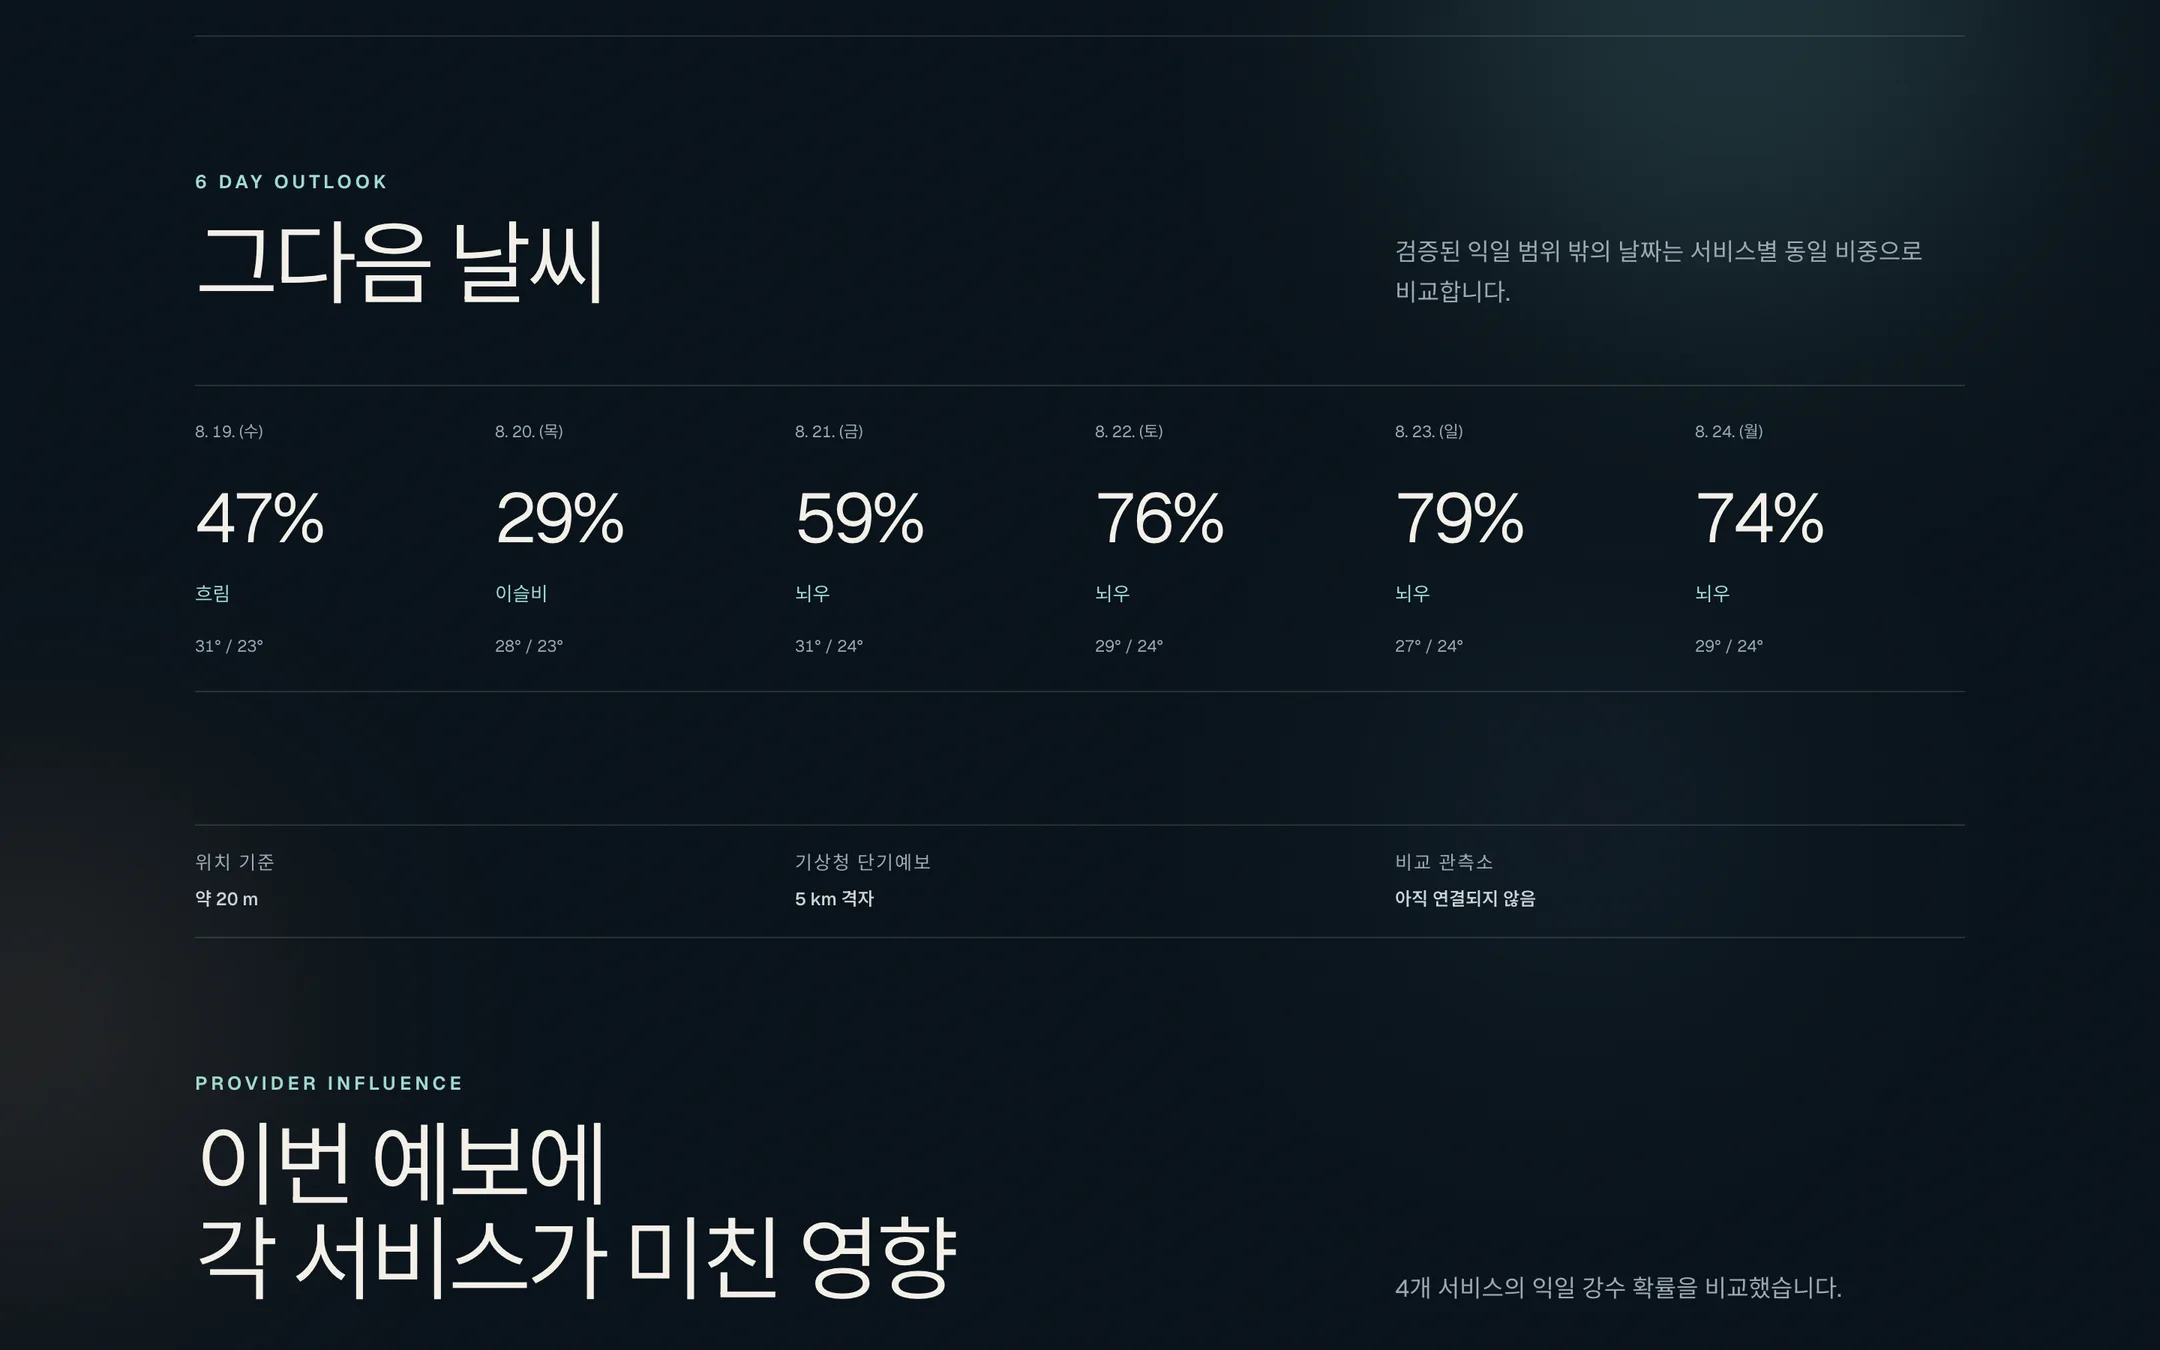
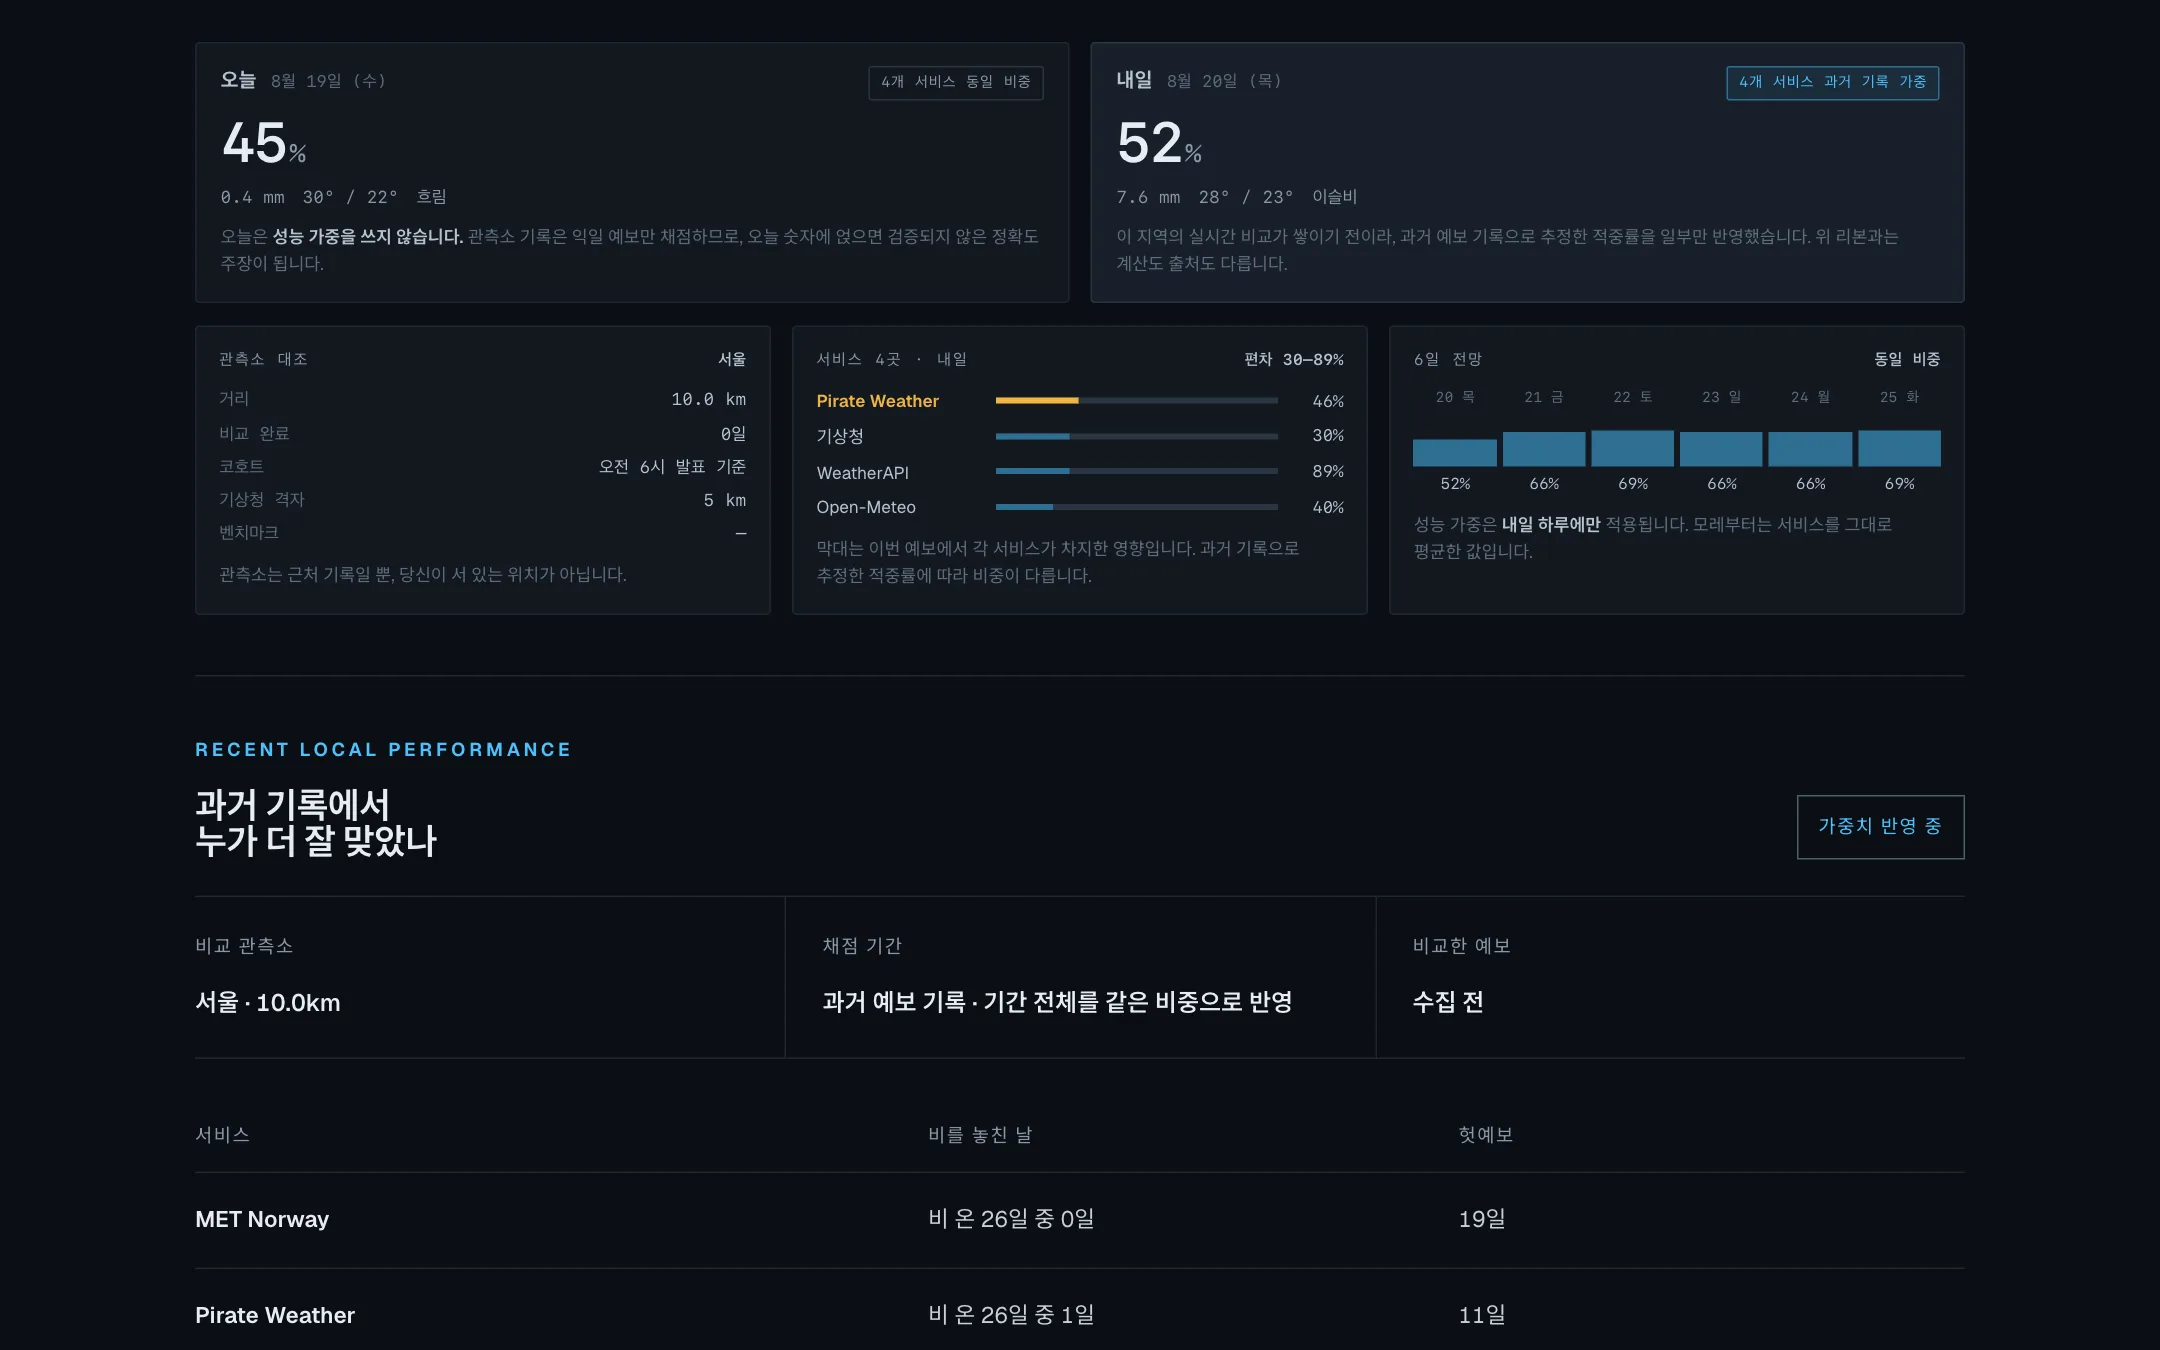
docs(local): describe and screenshot the horizontal time axis

diff --git a/components/local/LocalForecastExperience.tsx b/components/local/LocalForecastExperience.tsx
@@ -2,6 +2,7 @@
 
 import { useEffect, useId, useRef, useState, type CSSProperties } from "react";
 import { CONDITION_LABELS_KO } from "@/lib/conditions";
+import { periodNameForHour } from "@/lib/forecast/blocks";
 import type { TimelineReading } from "@/lib/forecast/rainWindow";
 import type { LocalForecastTimelineBlock, LocalForecastView } from "@/lib/localForecastView";
 import {
@@ -66,13 +67,19 @@ function formatDate(date: string | null): string {
   }).format(new Date(`${date}T12:00:00+09:00`));
 }
 
+/**
+ * "20 목" — six of these share one card, so the month is dropped. The card
+ * already says these are the days after tomorrow, and a full "8. 20. (목)"
+ * overflows its column at every width.
+ */
 function formatOutlookDate(date: string): string {
-  return new Intl.DateTimeFormat("ko-KR", {
+  const weekday = new Intl.DateTimeFormat("ko-KR", {
     timeZone: "Asia/Seoul",
-    weekday: "short",
-    month: "numeric",
-    day: "numeric",
+    weekday: "narrow",
   }).format(new Date(`${date}T12:00:00+09:00`));
+  // Off the ISO date rather than Intl: ko-KR renders `day: "numeric"` as "20일",
+  // and "20일 목" is a third wider than the column it has to sit in.
+  return `${Number(date.slice(8, 10))} ${weekday}`;
 }
 
 /**
@@ -788,6 +795,16 @@ function blockHint(
   return "기준 아래입니다.";
 }
 
+/**
+ * "오후 1시", "자정" — a Korean period name pairs with a 12-hour number, so the
+ * raw 24-hour clock the blocks carry ("오후 13시") reads as a mistake.
+ */
+function clockLabel(hour: number): string {
+  if (hour === 0) return "자정";
+  const period = periodNameForHour(hour);
+  return `${period} ${hour % 12 === 0 ? 12 : hour % 12}시`;
+}
+
 /** The rain window as the sentence the page leads with. */
 function RainSentence({ run, endsTomorrow }: {
   run: TimelineReading["firstRun"];
@@ -796,7 +813,7 @@ function RainSentence({ run, endsTomorrow }: {
   if (!run) return <>앞으로 24시간, <b>비 소식은 없습니다</b></>;
   const onset = run.startIndex === 0
     ? "지금부터"
-    : `${run.startsTomorrow ? "내일 " : ""}${run.startLabel} ${run.startHour}시부터`;
+    : `${run.startsTomorrow ? "내일 " : ""}${clockLabel(run.startHour)}부터`;
   if (!run.endsWithinWindow) {
     return <>비는 <b>{onset}</b><span className="local-answer-dim">, </span>예보 끝까지 이어집니다</>;
   }
@@ -804,7 +821,7 @@ function RainSentence({ run, endsTomorrow }: {
     <>
       비는 <b>{onset}</b>
       <span className="local-answer-dim">, </span>
-      <b>{endsTomorrow && !run.startsTomorrow ? "내일 " : ""}{run.endHour}시까지</b>
+      <b>{endsTomorrow && !run.startsTomorrow ? "내일 " : ""}{clockLabel(run.endHour)}까지</b>
     </>
   );
 }

diff --git a/app/globals.css b/app/globals.css
@@ -1023,8 +1023,15 @@ html {
 }
 
 .local-evidence-section {
-  padding: var(--s-band) 0 0;
+  padding: 2.5rem 0 0;
   border-top: 1px solid var(--local-line);
+  margin-top: 2.5rem;
+}
+
+.local-evidence-section .local-section-heading h2 {
+  font-size: 1.45rem;
+  font-weight: 600;
+  letter-spacing: -0.02em;
 }
 
 .local-section-heading {
@@ -1091,7 +1098,7 @@ html {
 }
 
 .local-evidence-meta {
-  margin-top: clamp(3rem, 7vw, 5.5rem);
+  margin-top: 1.5rem;
   display: grid;
   grid-template-columns: repeat(3, 1fr);
   border-top: 1px solid var(--local-line);
@@ -1099,7 +1106,7 @@ html {
 }
 
 .local-evidence-meta > div {
-  min-height: 7rem;
+  min-height: 5rem;
   padding: 1.5rem 1.5rem 1.5rem 0;
   display: flex;
   flex-direction: column;
@@ -1118,7 +1125,7 @@ html {
 }
 
 .local-score-table {
-  margin-top: 2.5rem;
+  margin-top: 1.75rem;
 }
 
 .local-score-row {
@@ -1232,7 +1239,7 @@ html {
    "위치 바꾸기" button. */
 
 .local-dashboard {
-  --local-track: 190px;
+  --local-track: 160px;
   display: flex;
   flex-direction: column;
   font-variant-numeric: tabular-nums;
@@ -1761,7 +1768,7 @@ html {
 
 .local-prow {
   display: grid;
-  grid-template-columns: minmax(0, 1fr) 44px 34px;
+  grid-template-columns: minmax(0, 7rem) minmax(2.5rem, 1fr) 2.25rem;
   gap: 0.5rem;
   align-items: center;
   font-size: 0.72rem;
@@ -1863,6 +1870,23 @@ html {
     max-width: 35rem;
   }
 
+  .local-dashboard {
+    --local-track: 140px;
+  }
+
+  /* Eight one-line hints are unreadable once a column is under ~90px, and they
+     are the one thing on this page nobody needs in order to get the answer. */
+  .local-ribbon-hint {
+    display: none;
+  }
+
+  .local-evidence-cards {
+    grid-template-columns: repeat(2, minmax(0, 1fr));
+  }
+
+  .local-evidence-cards > :last-child {
+    grid-column: 1 / -1;
+  }
 }
 
 @media (max-width: 640px) {
@@ -1904,7 +1928,7 @@ html {
   }
 
   .local-dashboard {
-    --local-track: 136px;
+    --local-track: 122px;
   }
 
   /* The location strip is the only navigation on a page about eleven phone

diff --git a/components/local/LocalForecastExperience.test.tsx b/components/local/LocalForecastExperience.test.tsx
@@ -1096,7 +1096,7 @@ test("the answer sentence names both ends of the rain window", async () => {
   // knows when it starts and when it stops.
   assert.equal(
     view.container.querySelector("#forecast-heading")?.textContent,
-    "비는 오후 12시부터, 21시까지",
+    "비는 오후 12시부터, 밤 9시까지",
   );
   assert.equal(view.container.querySelectorAll(".local-ribbon-col").length, 3);
   await view.cleanup();
@@ -1121,7 +1121,7 @@ test("a run that never stops inside the series does not claim an end time", asyn
 
   const heading = view.container.querySelector("#forecast-heading")?.textContent ?? "";
   assert.match(heading, /예보 끝까지 이어집니다/);
-  assert.doesNotMatch(heading, /21시까지/, "nothing published showed the rain stopping");
+  assert.doesNotMatch(heading, /9시까지/, "nothing published showed the rain stopping");
   await view.cleanup();
 });
 

diff --git a/CLAUDE.md b/CLAUDE.md
@@ -16,7 +16,9 @@ The application works without environment variables. Copy `.env.example` to `.en
 ## Architecture
 
 - `/` redirects to `/sky`; `/atmosphere` and `/diagnostics` redirect there through `next.config.ts`.
-- `app/sky/layout.tsx` mounts the persistent `WeatherExperienceShell`; `app/sky/page.tsx` renders `SkyView`.
+- `app/sky/page.tsx` renders `LocalForecastExperience` — the location chooser and, once a coordinate is chosen, the forecast dashboard. `app/sky/layout.tsx` only wraps `children` in a `<noscript>` notice.
+- The dashboard is one vertical read with no ambient scene behind it: the rain window as a sentence, the horizontal 24-hour ribbon (eight 3-hour blocks), the 오늘 / 내일 cards, three evidence cards, then the scored per-provider table. Its only interactive control is "위치 바꾸기".
+- `components/atmosphere/` (`SkyView`, the still-image field, `WeatherExperienceShell`) is no longer routed. It is kept, not deleted; do not wire it back in without being asked.
 - `/api/sky` is the lean live-scene payload. Open-Meteo is the keyless baseline; optional KMA, AirKorea, and RainViewer data degrade independently.
 - `/api/weather` is the deferred, heavier provider-comparison payload used by Ground Station.
 - `/api/radar/frames` and `/api/radar/frame` are thin adapters over `RadarDelivery`, serving optional KMA reflectivity metadata and server-rendered PNG frames. `RadarDelivery` owns key/window validation, bounded newest-deliverable discovery, process-local admission, same-key single-flight, cancellation, and recent immutable PNG caching; KMA keys and raw grids must never reach the client.
@@ -24,7 +26,7 @@ The application works without environment variables. Copy `.env.example` to `.en
 - `lib/cache.ts` provides process-local single-flight TTL caching with stale-on-error fallback.
 - The scheduled reliability CLI delegates restore, optional recovery, isolated cycle execution, validation, and publication to `runReliabilityStateTransaction`.
 - `GitStateTarget` owns the public `reliability-state` branch. The web runtime reads only its raw learned-weights file; `vercel.json` prevents state commits from creating deployments.
-- `public/sky/manifest.json` is the runtime still-image manifest. The live scene does not use a video gallery.
+- `public/sky/manifest.json` is the still-image manifest for the retired scene. Nothing on the live route reads it.
 
 ## Invariants
 
@@ -37,7 +39,9 @@ The application works without environment variables. Copy `.env.example` to `.en
 - Preserve the RadarDelivery boundary: allow only real five-minute keys in the recent observed window; keep its default per-process limit of two active renders and eight queued renders; coalesce same-key requests; and propagate cancellation. Timeline discovery may scan from the nominal newest key through six older five-minute keys only while KMA explicitly classifies candidates as not yet published; the first deliverable key anchors all 13 frames. Busy, cancelled, timeout, malformed, and terminal failures stop discovery. Discovery is not a promise that other frames are cached. Keep produced PNGs immutable, process-local cache entries defensive and window-pruned, delivery-owned busy retry metadata serialized by the HTTP adapter, and failure responses non-cacheable.
 - Do not move per-second clock state into `WeatherFieldProvider`; that would repaint the scene every second.
 - Raw weather values must pass through the clamped visual mapping in `lib/atmosphere/weatherVisualConfig.ts` before reaching the shader.
-- A clear or partly-cloudy sky must never select a rain or snow plate. Time anchor is the hard axis in `lib/cinematic/skyImageField.ts`.
+- A clear or partly-cloudy sky must never select a rain or snow plate. Time anchor is the hard axis in `lib/cinematic/skyImageField.ts`. (Unrouted, with `components/atmosphere/`.)
+- The ribbon's bars are a plain 0–100% scale with the umbrella threshold drawn at the probability it names — never a compressed scale that would put the mark somewhere other than its own value. A block with no published probability is hatched and unfilled; a published 0% keeps a real, thin bar. The rain window comes from `readTimeline`, and an unpublished block ends a run rather than extending it, so the page claims an end time only when a later block proved one.
+- The ribbon is one provider's hourly series while the 오늘 / 내일 numbers are a multi-provider blend. Keep them attributed apart; never let the ribbon read as consensus. Performance weighting applies to tomorrow only.
 - Missing providers, images, WebGL, or radar must leave an honest fallback rather than a blank scene or fabricated value.
 - Preserve required attribution for KMA, CARTO/OpenStreetMap, RainViewer, Open-Meteo, and MET Norway.
 

diff --git a/README.md b/README.md
@@ -5,7 +5,7 @@
 [![TypeScript](https://img.shields.io/badge/TypeScript-6-3178C6?logo=typescript&logoColor=white)](https://www.typescriptlang.org/)
 [![Local performance](https://github.com/mhju0/raintoday/actions/workflows/local-performance.yml/badge.svg)](https://github.com/mhju0/raintoday/actions/workflows/local-performance.yml)
 
-오늘비 ("rain today") is a South Korea local rain forecast. It leads with when rain is expected to arrive at the user's chosen coordinate and how likely it is today, carries tomorrow alongside them, and — when sufficient prospective evidence exists — adjusts each provider's influence on the next-day figure using the Recent Performance Profile from its KMA Station Match.
+오늘비 ("rain today") is a South Korea local rain forecast. It leads with when rain starts and stops at the user's chosen coordinate, shows the next 24 hours as a horizontal time axis, carries today and tomorrow as two separately-calculated figures, and — when sufficient prospective evidence exists — adjusts each provider's influence on the next-day figure using the Recent Performance Profile from its KMA Station Match.
 
 **Live demo:** [raintoday.vercel.app/sky](https://raintoday.vercel.app/sky)
 
@@ -15,17 +15,17 @@ The interface is Korean, for Korean users. The captions below describe what each
 
 *Nothing is requested until the visitor asks. The app never prompts for location automatically or infers it from an IP address.*
 
-![When the rain arrives, with today's probability beside it](public/screenshots/forecast.webp)
+![The rain window as a sentence, above the 24-hour time axis](public/screenshots/forecast.webp)
 
-*The heading answers when, not whether — the probability alone cannot tell someone leaving at 09:00 from someone leaving at 21:00. The strip is one provider's hourly series and says so, because the figure beside it is a blend of several and the two must not read as the same claim. A time block nobody published shows a dash, never 0%.*
+*The heading answers when, not whether — a probability alone cannot tell someone leaving at 09:00 from someone leaving at 21:00. The ribbon is eight 3-hour blocks on a plain 0–100% scale, with the umbrella threshold drawn at the value it names and the rain window marked across every block it covers. It is one provider's hourly series and says so, because the day figures below it are a blend of several. A block nobody published is hatched and shows a dash, never 0%.*
 
-![Six-day outlook and the provider comparison](public/screenshots/outlook.webp)
+![Today and tomorrow as two cards, over the three evidence cards](public/screenshots/outlook.webp)
 
-*Every provider that supplied a probability is shown with the figure it actually gave. When no local performance record exists yet, the page says so and averages them equally rather than drawing identical bars.*
+*Today and tomorrow are different calculations, so they are different surfaces and each card carries its own method tag — performance weighting is scored on next-day forecasts only and never claimed for today. Below them: the station the evidence comes from, every provider with the figure it actually gave and the influence it was granted, and the six-day outlook that is always an equal average.*
 
 <img src="public/screenshots/mobile.webp" alt="The same forecast on a phone" width="320">
 
-*On a phone the strip sits above the detail rows: the answer is the arrival time, so it comes before the millimetres. The location bar stays pinned through the full scroll.*
+*On a phone the sentence and both day cards stay whole; only the ribbon scrolls sideways, so nobody has to swipe to get the answer. The location bar stays pinned through the full scroll.*
 
 ## Product contract
 
